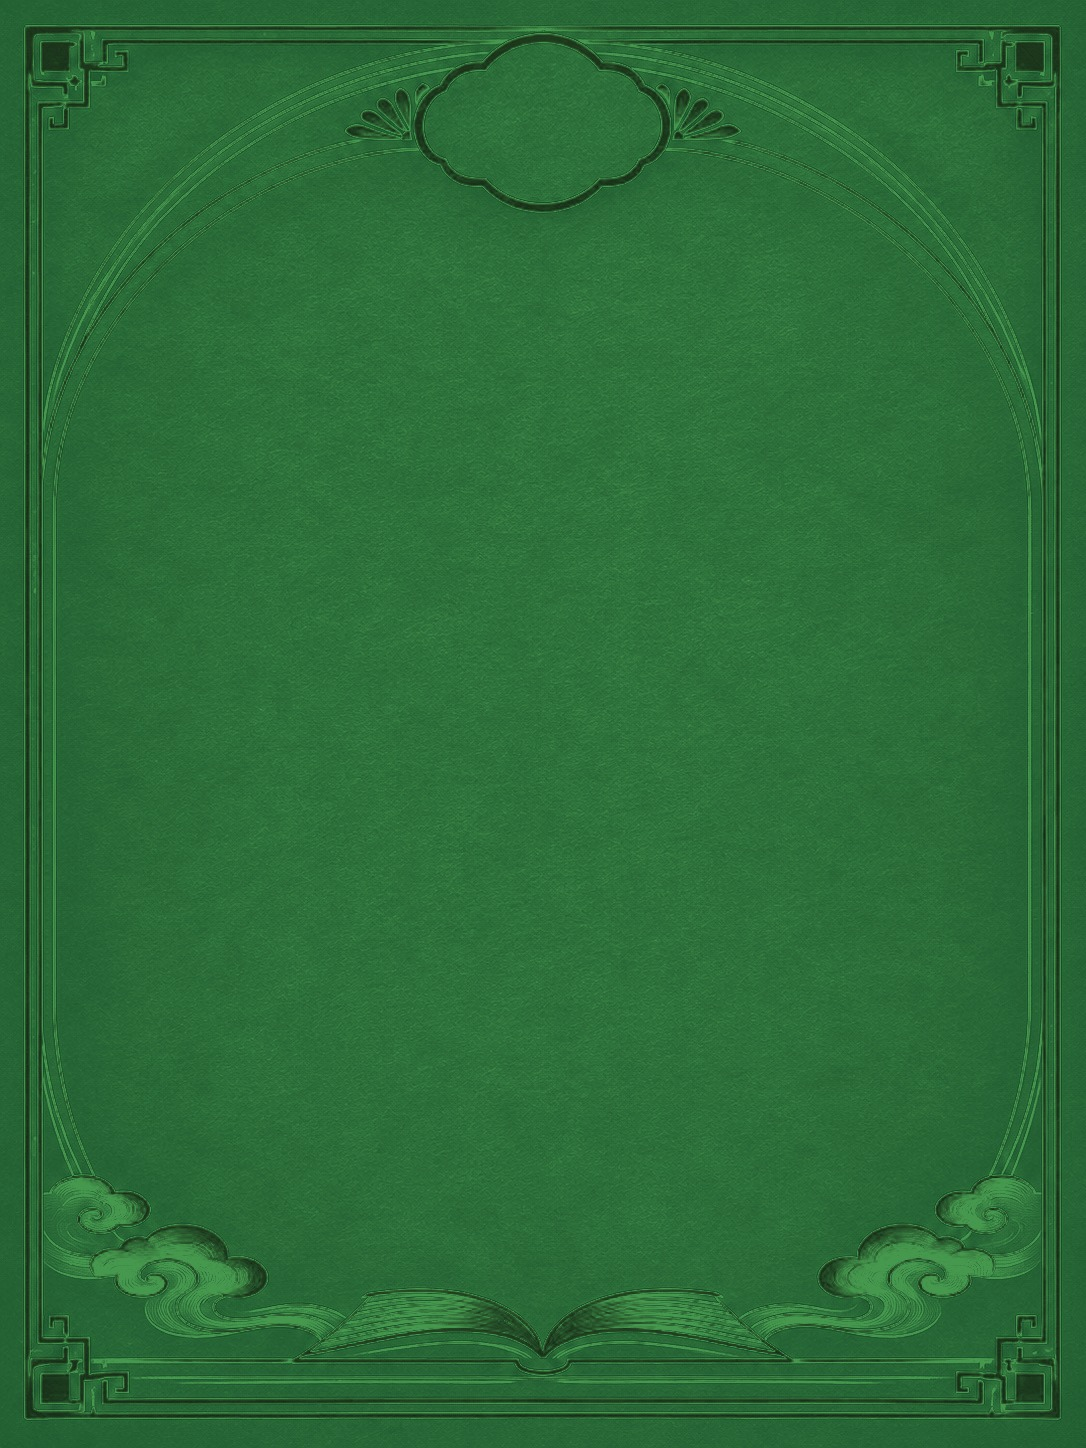
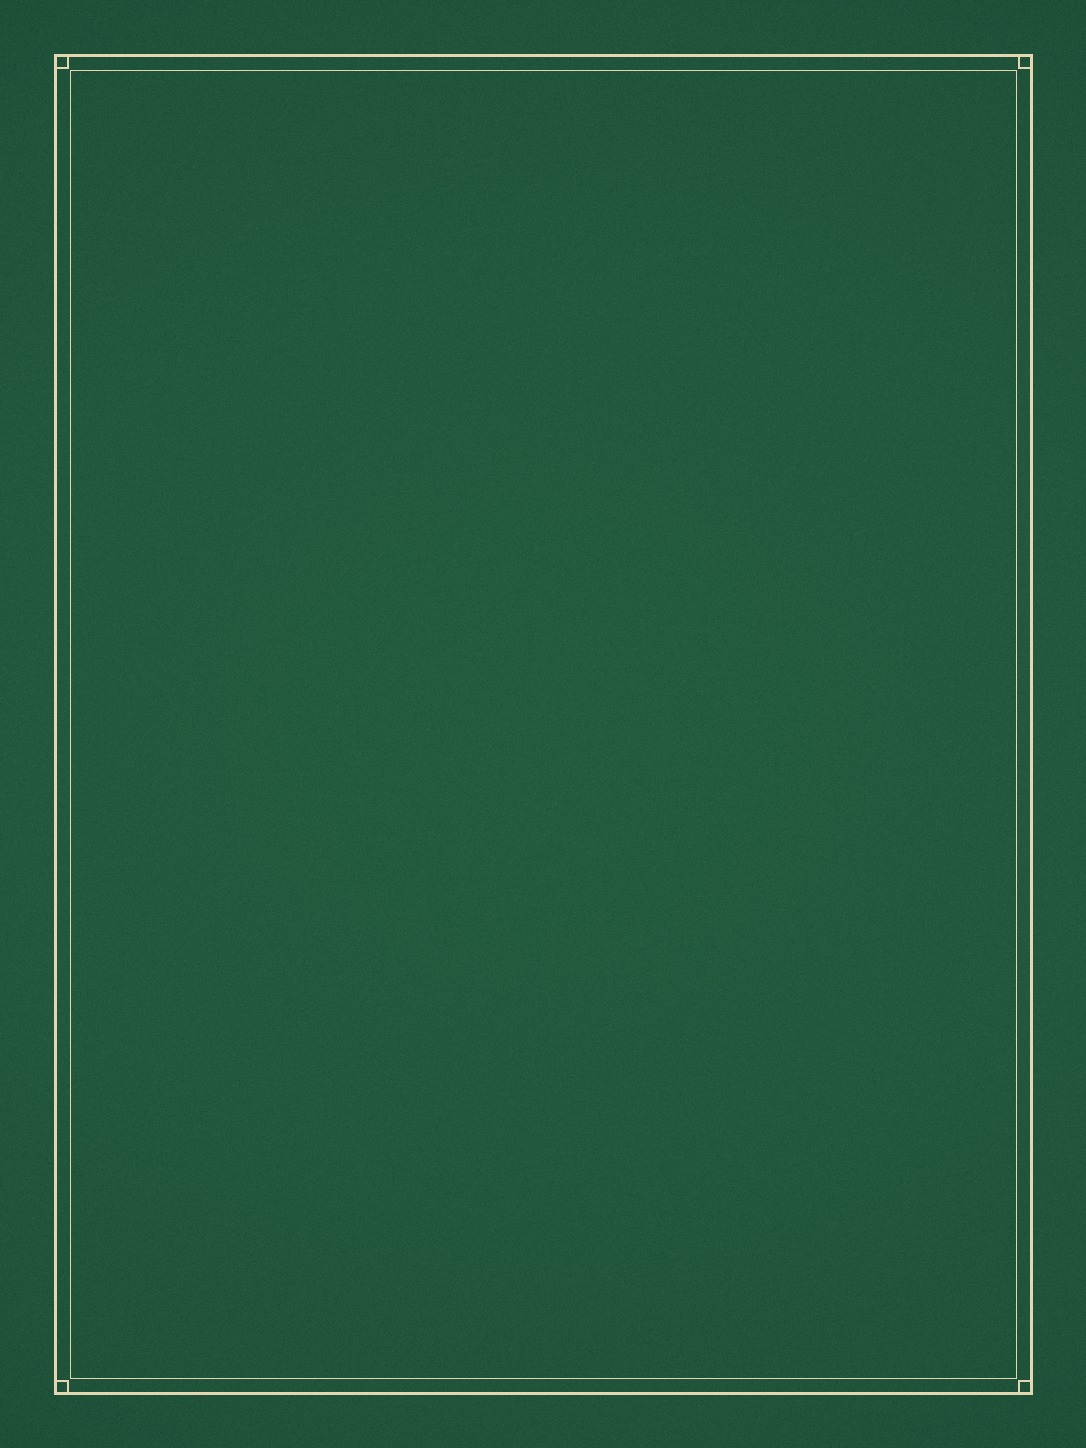
黄皮书和绿皮书改成布面书脊和浅纸内页 (#276)
系列色只留在封面、书脊、页首短线和目录当前位置，正文回到可以长读的浅纸。

Closes #275

diff --git a/app/(site)/components/book-reader/manualPaper.module.css b/app/(site)/components/book-reader/manualPaper.module.css
@@ -1,41 +1,78 @@
-.paper {
+.desk {
   width: 100%;
+  padding: 28px 16px 64px;
+  background: var(--manual-desk);
   color: var(--site-ink);
+}
+
+.sheet {
+  width: min(1120px, 100%);
+  margin: 0 auto;
   background:
-    linear-gradient(90deg, var(--manual-binding) 0 8px, transparent 8px),
-    var(--manual-paper);
+    linear-gradient(var(--manual-cloth), var(--manual-cloth)) left 32px top 22px / 48px 2px no-repeat,
+    var(--manual-sheet);
+  box-shadow:
+    inset 12px 0 0 var(--manual-cloth),
+    0 0 0 1px rgb(40 32 18 / 8%),
+    0 18px 40px rgb(40 32 18 / 7%);
+  padding: 36px 0 20px 10px;
+}
+
+.sheet :global(h1) {
+  font-family: Georgia, 'Noto Serif SC', serif;
+  font-weight: 600;
+  letter-spacing: 0.01em;
+}
+
+.sheet :global([data-book-toc]) {
+  padding: 2px 0 2px 0;
+  border: 0;
+  border-radius: 0;
+  background: transparent;
+}
+
+.sheet :global([data-book-toc] a[aria-current]) {
+  background: transparent;
+  box-shadow: inset 2px 0 0 var(--manual-cloth);
 }
 
 .yellow {
-  --manual-paper: #f6e3a8;
-  --manual-binding: #c4922e;
-  --page-bg: #f6e3a8;
-  --site-ink: #3d2910;
-  --site-muted: #6d5330;
-  --site-faint: #8a7048;
-  --site-line: #e4c56e;
-  --site-line-strong: #c49a3c;
-  --site-panel: #fff6d4;
-  --site-panel-strong: #fffaf0;
-  --site-accent: #8a5a12;
-  --site-accent-strong: #5c3a0c;
+  --manual-desk: #e7dfd0;
+  --manual-sheet: #faf6ee;
+  --manual-cloth: #a67c2d;
+  --page-bg: #faf6ee;
+  --site-ink: #2c261c;
+  --site-muted: #6f675c;
+  --site-faint: #8d8476;
+  --site-line: #e6dcc8;
+  --site-line-strong: #c9b48a;
+  --site-panel: #fffdf8;
+  --site-panel-strong: #fffdf8;
+  --site-accent: #8a6230;
+  --site-accent-strong: #5c3e1a;
   --site-green: #a67c2d;
-  --site-shadow: rgb(92 58 12 / 12%);
+  --site-shadow: rgb(60 44 20 / 8%);
 }
 
 .green {
-  --manual-paper: #d7ebc8;
-  --manual-binding: #1f6b3a;
-  --page-bg: #d7ebc8;
-  --site-ink: #143628;
-  --site-muted: #3d624c;
-  --site-faint: #5d7d68;
-  --site-line: #b7d4b4;
-  --site-line-strong: #7eaa84;
-  --site-panel: #f4faee;
-  --site-panel-strong: #fbfff8;
-  --site-accent: #1d6840;
-  --site-accent-strong: #0f3d24;
-  --site-green: #2f8a52;
-  --site-shadow: rgb(20 54 40 / 12%);
+  --manual-desk: #e3e8e2;
+  --manual-sheet: #f4f7f2;
+  --manual-cloth: #1e5c3a;
+  --page-bg: #f4f7f2;
+  --site-ink: #1c2820;
+  --site-muted: #5d6b62;
+  --site-faint: #7d8b82;
+  --site-line: #d5e3d8;
+  --site-line-strong: #8faf96;
+  --site-panel: #fbfdf9;
+  --site-panel-strong: #fbfdf9;
+  --site-accent: #1e5c3a;
+  --site-accent-strong: #143d28;
+  --site-green: #1e5c3a;
+  --site-shadow: rgb(20 48 32 / 8%);
+}
+
+@media (max-width: 640px) {
+  .desk { padding: 0 0 40px; }
+  .sheet { box-shadow: inset 8px 0 0 var(--manual-cloth); }
 }

diff --git a/app/(site)/resources/books/bookShelf.module.css b/app/(site)/resources/books/bookShelf.module.css
@@ -37,7 +37,7 @@
 .coverImageCrop { object-fit: cover; }
 .fallbackCover { position: relative; display: flex; height: 100%; flex-direction: column; padding: 20px 19px 22px; color: #f4e6c4; }
 .collectionCoverImage { object-fit: cover; }
-.collectionBadge, .coverType, .coverTitle, .coverRule, .coverSource { position: relative; z-index: 1; }
+.collectionBadge, .coverType, .coverSeries, .coverTitle, .coverRule, .coverSource { position: relative; z-index: 1; }
 .collectionBadge { align-self: center; padding: 3px 7px; color: #f6e2a9; font: 700 10px/1.25 'Noto Serif SC', serif; letter-spacing: .14em; white-space: nowrap; }
 .coverType { margin-top: 16px; font: 9px/1.5 ui-monospace, monospace; letter-spacing: .14em; }
 .coverTitle { margin: auto 0; font: 700 clamp(15px, 1.7vw, 24px)/1.4 Georgia, 'Noto Serif SC', serif; overflow-wrap: anywhere; text-shadow: 0 1px 3px rgb(0 0 0 / 50%); }
@@ -49,14 +49,20 @@
 .cover3 { background: #48486a; color: #eee8db; }
 .cover4 { background: #5d3c42; color: #f4e7cd; }
 .cover5 { background: #4b604d; color: #f3edd8; }
-.coverYellow { background: #e2b23a; color: #4a2c12; }
+.coverYellow { background: #c4a04a; color: #4a2c12; }
 .coverYellow .fallbackCover { color: #4a2c12; }
 .coverYellow .collectionBadge { color: #5c3814; }
-.coverYellow .coverTitle { color: #3d2610; text-shadow: none; }
-.coverGreen { background: #1f6b3a; color: #f4faee; }
-.coverGreen .fallbackCover { color: #f4faee; }
-.coverGreen .collectionBadge { color: #e5f6d8; }
-.coverGreen .coverTitle { color: #f7fbf3; text-shadow: 0 1px 2px rgb(0 0 0 / 35%); }
+.coverYellow .coverTitle,
+.coverGreen .coverTitle { width: 78%; align-self: center; text-align: center; font-weight: 600; letter-spacing: .02em; line-height: 1.35; text-shadow: none; }
+.coverYellow .coverRule,
+.coverGreen .coverRule { width: 28%; align-self: center; opacity: .55; }
+.coverYellow .coverSource,
+.coverGreen .coverSource { width: 78%; align-self: center; text-align: center; }
+.coverSeries { align-self: center; margin-top: 16%; font: 600 11px/1 Georgia, 'Noto Serif SC', serif; letter-spacing: .46em; text-indent: .46em; }
+.coverYellow .coverTitle { color: #3d2610; }
+.coverGreen { background: #14382a; color: #f4f7f1; }
+.coverGreen .fallbackCover { color: #f4f7f1; }
+.coverGreen .coverTitle { color: #f7fbf3; }
 .bookInfo { display: flex; flex: 1; flex-direction: column; padding-top: 14px; }
 .bookKind { color: var(--site-faint); font: 10px/1.5 ui-monospace, monospace; letter-spacing: .04em; }
 .mineKind { color: #7c5939; }

diff --git a/app/(site)/resources/books/BookShelf.jsx b/app/(site)/resources/books/BookShelf.jsx
@@ -27,7 +27,7 @@ function BookCover({ book, index }) {
         <span className={styles.fallbackCover} aria-hidden="true">
           <Image src={TONE_COVER[tone] || LIBRARY_COLLECTION_COVER} alt="" fill sizes="(max-width: 640px) 40vw, (max-width: 1024px) 25vw, 190px" className={styles.collectionCoverImage} />
           {tone ? null : <span className={styles.collectionBadge}>阿燃典藏</span>}
-          <span className={styles.coverType}>{book.ownership === 'self' ? '原创作品' : '外部资源书'}</span>
+          <span className={tone ? styles.coverSeries : styles.coverType}>{tone === 'yellow' ? '黄皮书' : tone === 'green' ? '绿皮书' : book.ownership === 'self' ? '原创作品' : '外部资源书'}</span>
           <span className={styles.coverTitle}>{book.title}</span>
           <span className={styles.coverRule} />
           <span className={styles.coverSource}>{book.creditLabel} · {book.credit}</span>

diff --git a/app/(site)/components/book-reader/BookToc.jsx b/app/(site)/components/book-reader/BookToc.jsx
@@ -67,7 +67,7 @@ export default function BookToc({ groups, title = '目录', caption, className =
 
   const holdManualScroll = () => { manualUntil.current = Date.now() + 1800 }
   return (
-    <nav aria-label={title} className={`${styles.toc} ${className}`}>
+    <nav aria-label={title} data-book-toc="" className={`${styles.toc} ${className}`}>
       <p className={styles.tocTitle}>{title}</p>
       {caption ? <p className={styles.tocCaption}>{caption}</p> : null}
       <div ref={listRef} className={styles.tocList} onWheel={holdManualScroll} onTouchMove={holdManualScroll} onPointerDown={holdManualScroll}>

diff --git a/app/(site)/components/book-reader/ManualPaper.jsx b/app/(site)/components/book-reader/ManualPaper.jsx
@@ -1,5 +1,9 @@
 import styles from './manualPaper.module.css'
 
 export default function ManualPaper({ tone = 'yellow', children }) {
-  return <div className={`${styles.paper} ${styles[tone]}`}>{children}</div>
+  return (
+    <div className={`${styles.desk} ${styles[tone]}`}>
+      <div className={styles.sheet}>{children}</div>
+    </div>
+  )
 }

diff --git a/docs/specs/resource-book-reader.md b/docs/specs/resource-book-reader.md
@@ -19,7 +19,7 @@
 - `lib/content/resourceBooks.mjs` 为每本站内可读书声明 `ownership`；`lib/content/libraryCatalog.mjs` 合并出版作品和阅读资源，统一生成归属、类型与署名。外部作品的文字封面不得使用 `TUARAN · 原创作品`；作者、共同作者、出版社与来源机构分别标注，不混为本站作者。
 - 页头以标题和简短范围说明为主，数量只作紧凑辅助信息。不要用跨整屏的空白面板挤走第一排书卡。
 - 首页「站长著作」的图书馆图标直达馆藏；旧 `/publications` 永久跳转到馆藏，站内导航和书籍详情的返回链接使用新路径。SEO 注册表只收录馆藏地址。
-- 有正式封面的作品展示原封面，以固定 3:4 书卡框架陈列；不可把宣传海报当书封。缺少独立封面的全文使用统一生成的馆藏底图 `public/images/books/aran-collection-cover.jpg`，在页面上叠加准确书名、作者或来源，并显示「阿燃典藏」徽标。标明 `coverTone: 'yellow'` 的黄皮书改用 `public/images/books/aran-yellow-cover.jpg`，书名用深褐色。标明 `coverTone: 'green'` 的绿皮书改用 `public/images/books/aran-green-cover.jpg`，书名用浅色。黄皮书和绿皮书不显示「阿燃典藏」。黄皮书和绿皮书的正文页用 `ManualPaper` 铺上对应纸色，阅读页不随站点深色主题反色。徽标表示本站收藏与编目，不表示外部作品归站长创作。每张书卡必须给出明确的“查看作品详情”或“在线阅读”动作。
+- 有正式封面的作品展示原封面，以固定 3:4 书卡框架陈列；不可把宣传海报当书封。缺少独立封面的全文使用统一生成的馆藏底图 `public/images/books/aran-collection-cover.jpg`，在页面上叠加准确书名、作者或来源，并显示「阿燃典藏」徽标。标明 `coverTone: 'yellow'` 的黄皮书改用 `public/images/books/aran-yellow-cover.jpg`，书名用深褐色。标明 `coverTone: 'green'` 的绿皮书改用 `public/images/books/aran-green-cover.jpg`，书名用浅色。黄皮书和绿皮书不显示「阿燃典藏」。黄皮书和绿皮书的正文页用 `ManualPaper` 铺浅色纸面，系列色只用于封面布料、书脊、页首短线和目录当前位置。阅读页不随站点深色主题反色。徽标表示本站收藏与编目，不表示外部作品归站长创作。每张书卡必须给出明确的“查看作品详情”或“在线阅读”动作。
 - 全文阅读页在标题之前提供到 `/resources/books` 的路径；共用 `BookIdentity` 以普通面包屑呈现，已有更具体面包屑的页面保留原导航，避免双重入口。具体类型（原著、白皮书、实践读本、逐章阅读）作为末级文字，不使用浮起的徽章样式。
 - `app/(site)/components/book-reader/BookToc.jsx` 是书籍目录唯一的交互组件。按 `groups: [{ id?, heading, items: [{ id, label, depth? }] }]` 提供数据；没有篇级锚点时可省略 `group.id`。
 - 逐章路由的目录项可使用 `href`，选中状态由当前路径决定；同页章节继续用 `id` 与锚点定位。
